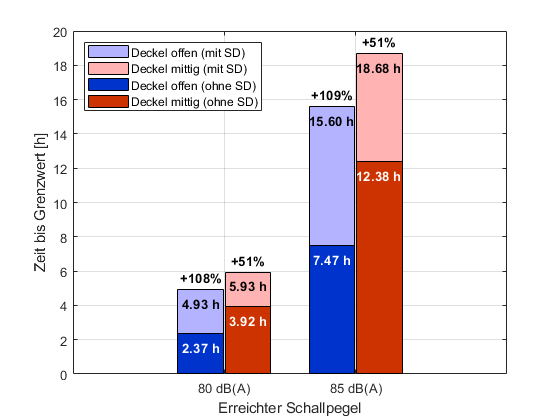
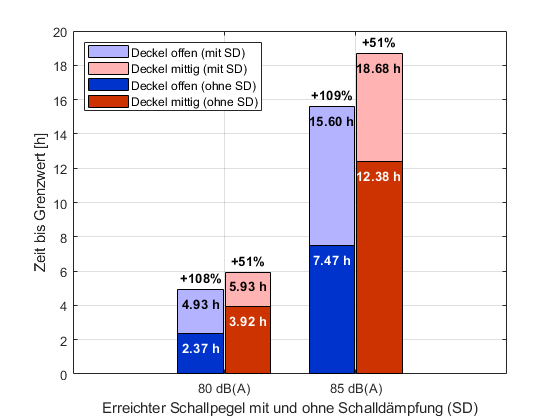
Small improvements at the sound level diagram

Changed region(s): [[0.1821, 0.9595, 0.85, 0.9905]]

diff --git a/Lautstaerkepegel.m b/Lautstaerkepegel.m
@@ -122,7 +122,7 @@ end
 xticks(x);
 xticklabels({'80 dB(A)', '85 dB(A)'});
 
-xlabel('Erreichter Schallpegel');
+xlabel('Erreichter Schallpegel mit und ohne Schalldämpfung (SD)');
 ylabel('Zeit bis Grenzwert [h]');
 
 legend( ...
@@ -138,7 +138,7 @@ hold off;
 xticks(x);
 xticklabels({'80 dB(A)', '85 dB(A)'});
 
-xlabel('Reached Sound Level');
+xlabel('Reached Sound Level with and without the Sound Dampening (SD)');
 ylabel('Time until Limit [h]');
 
 legend( ...
